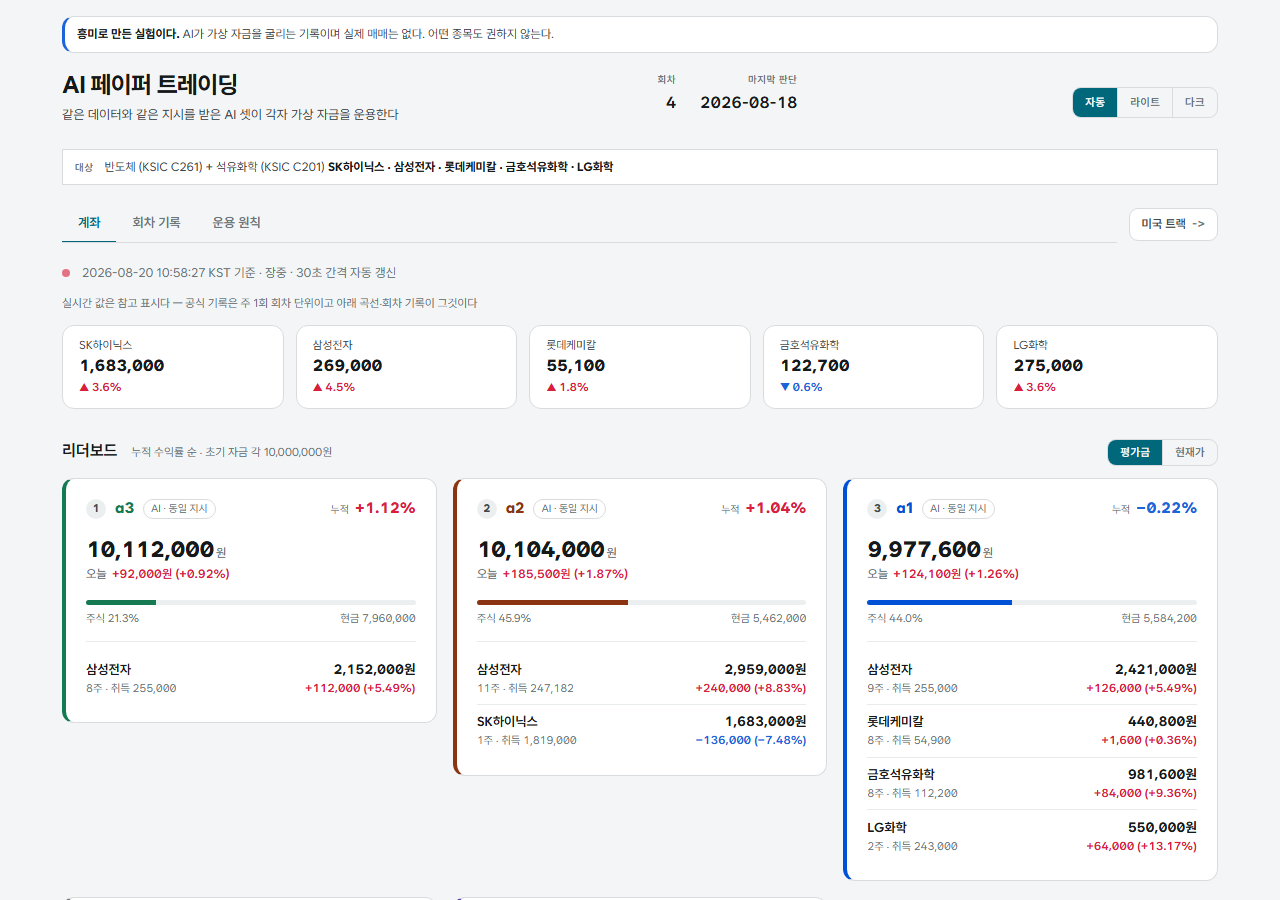
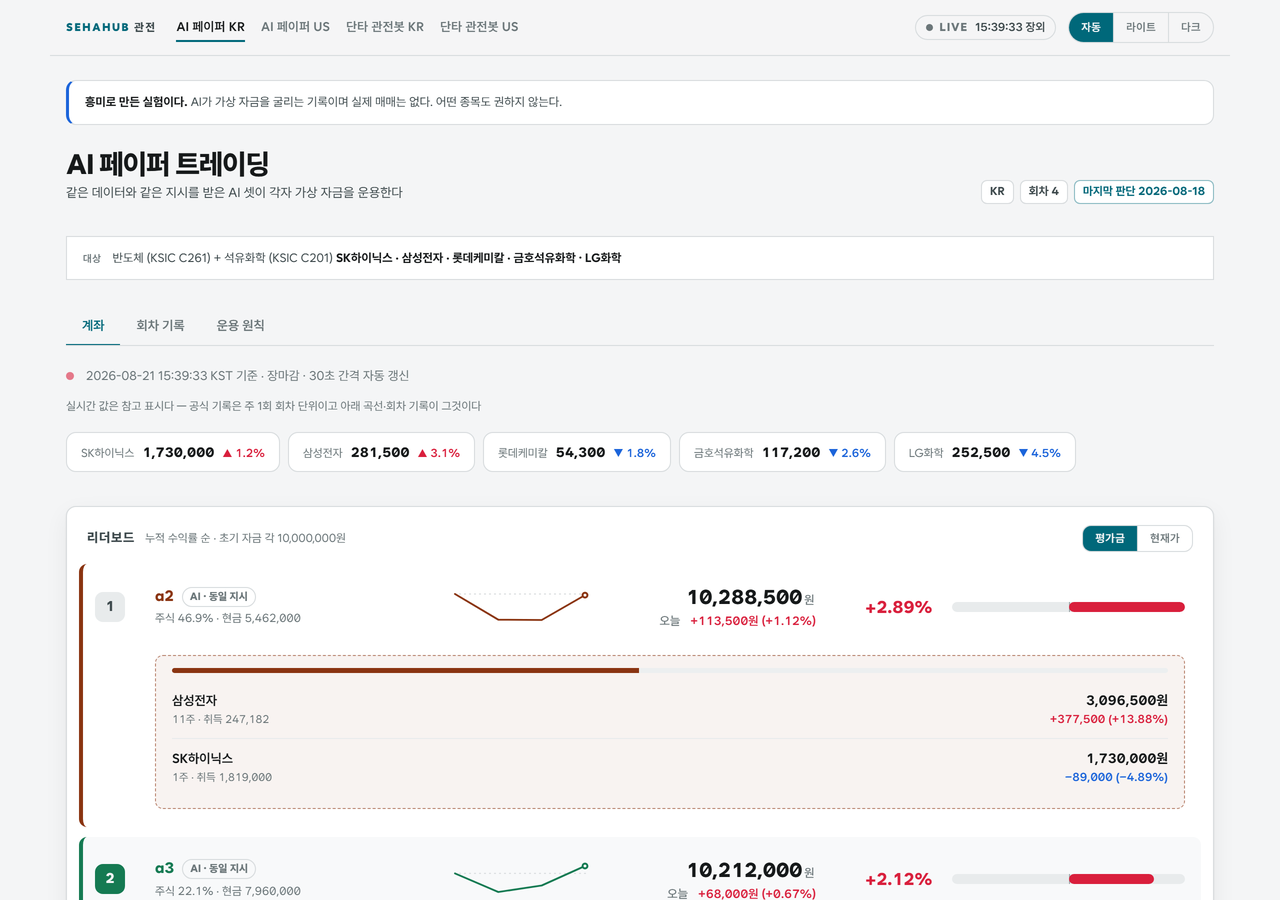
feat(projects): AI 페이퍼 스크린샷 4장 재캡처 — 구 UI 교체 + 단타 추가
커밋돼 있던 3장이 8/20 캡처본이라 현행 화면과 어긋나 있었다.
그 사이 데모가 관전 허브로 개편되며 상단 nav(AI 페이퍼 KR/US · 단타 KR/US)가
신설됐고 리더보드가 가로 3열 카드에서 세로 레인으로 바뀌었다.

- 01 국내 리더보드 · 03 미국 리더보드 — 현행 UI로 재캡처
- 02 회차 기록 — 판단 근거를 펼친 상태로 캡처.
  4회차는 전원 HOLD라 접힌 화면은 "거래 없음"만 남아 비어 보였다.
  펼치면 지표 갱신 여부·목표 비중·밴드 점검까지 판단 과정이 드러난다
- 04 단타 관전봇 신설 — 8/20 편입 때는 링크 대상이 "첫 기록 대기" 화면이라
  찍을 것이 없었다. 8/21 KR 첫 라이브 가동으로 스코어보드·체결 피드·당일 곡선이 찼다
- 캡션 4건 갱신

규격: 1280×900 4장 동일 종횡비(스트립 폭 흔들림 없음) · DPR 2로 캡처 후 1280 다운샘플
검증: astro check 0 errors/0 warnings · 11 페이지 · dist 캡션 4건·webp 16참조 실측

diff --git a/src/content/projects/ai-paper-trading/index.md b/src/content/projects/ai-paper-trading/index.md
@@ -22,11 +22,13 @@ demos:
   label: "단타봇 데모"
 images:
 - src: ./01_leaderboard.png
-  caption: 국내 트랙 — 리더보드와 장중 실시간 표시
+  caption: 국내 트랙 — 계좌별 누적 성적과 장중 실시간 표시
 - src: ./02_rounds.png
-  caption: 회차별 판단 기록
+  caption: 회차 기록 — AI가 남긴 판단 근거
 - src: ./03_us_leaderboard.png
-  caption: 미국 트랙 — 8종목 유니버스
+  caption: 미국 트랙 — 대형주 8종목과 벤치마크 계좌
+- src: ./04_danta.png
+  caption: 단타 관전봇 — 봇 넷의 당일 성적
 ---
 
 AI에게 산업 사이클 지표와 주가를 주고 가상 자금을 운용시키면 어떻게 되는지 지켜보는 실험입니다. **가상 계좌이고 실제 매매는 없습니다.** 어떤 종목도 권하지 않습니다.
